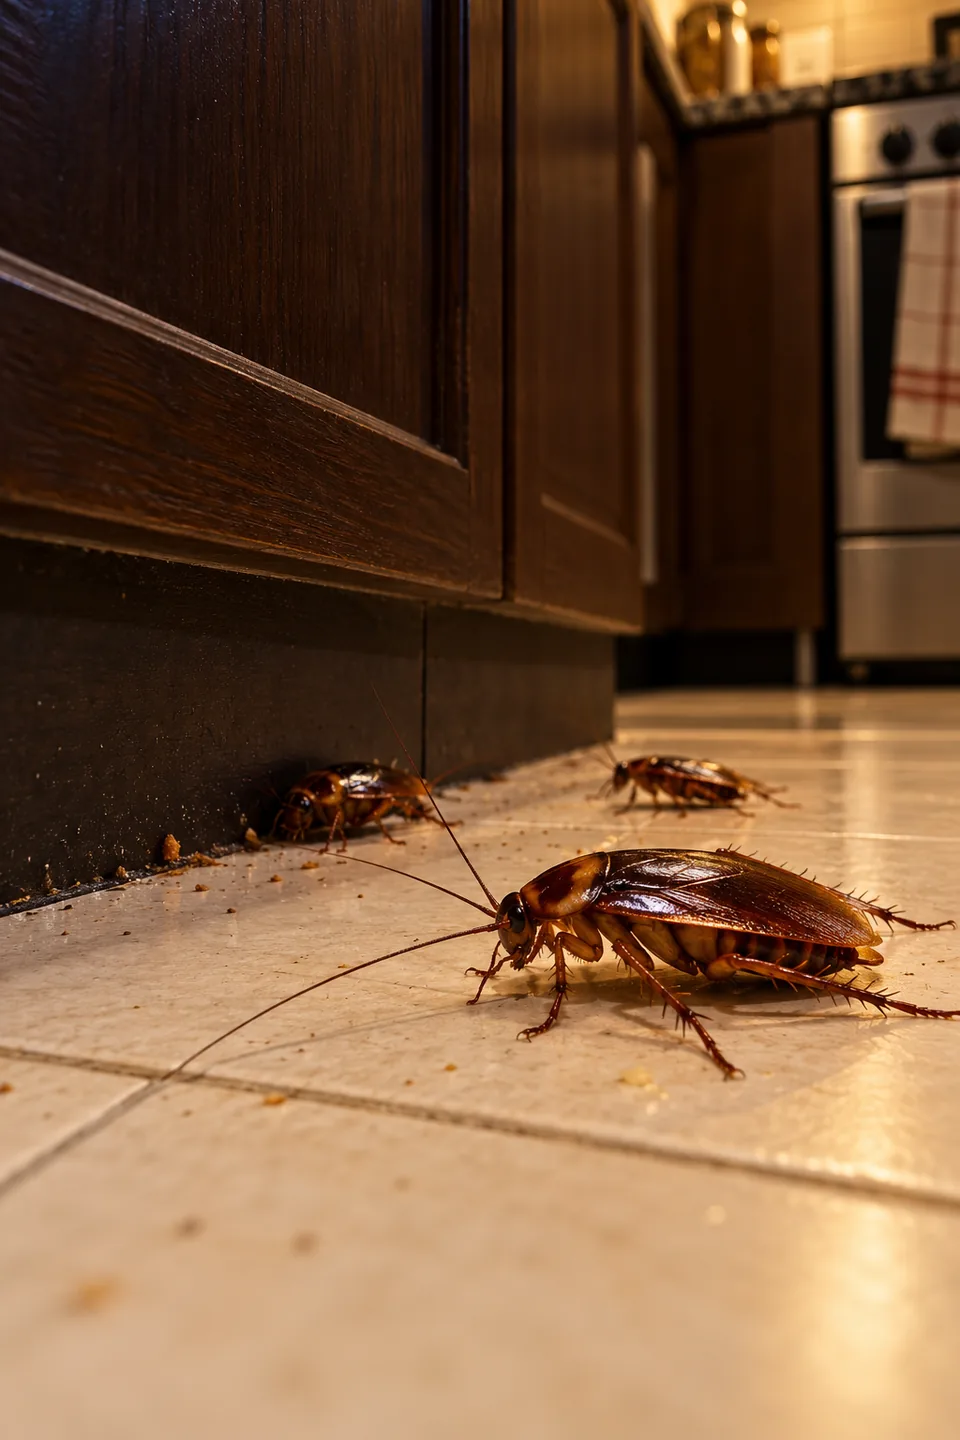
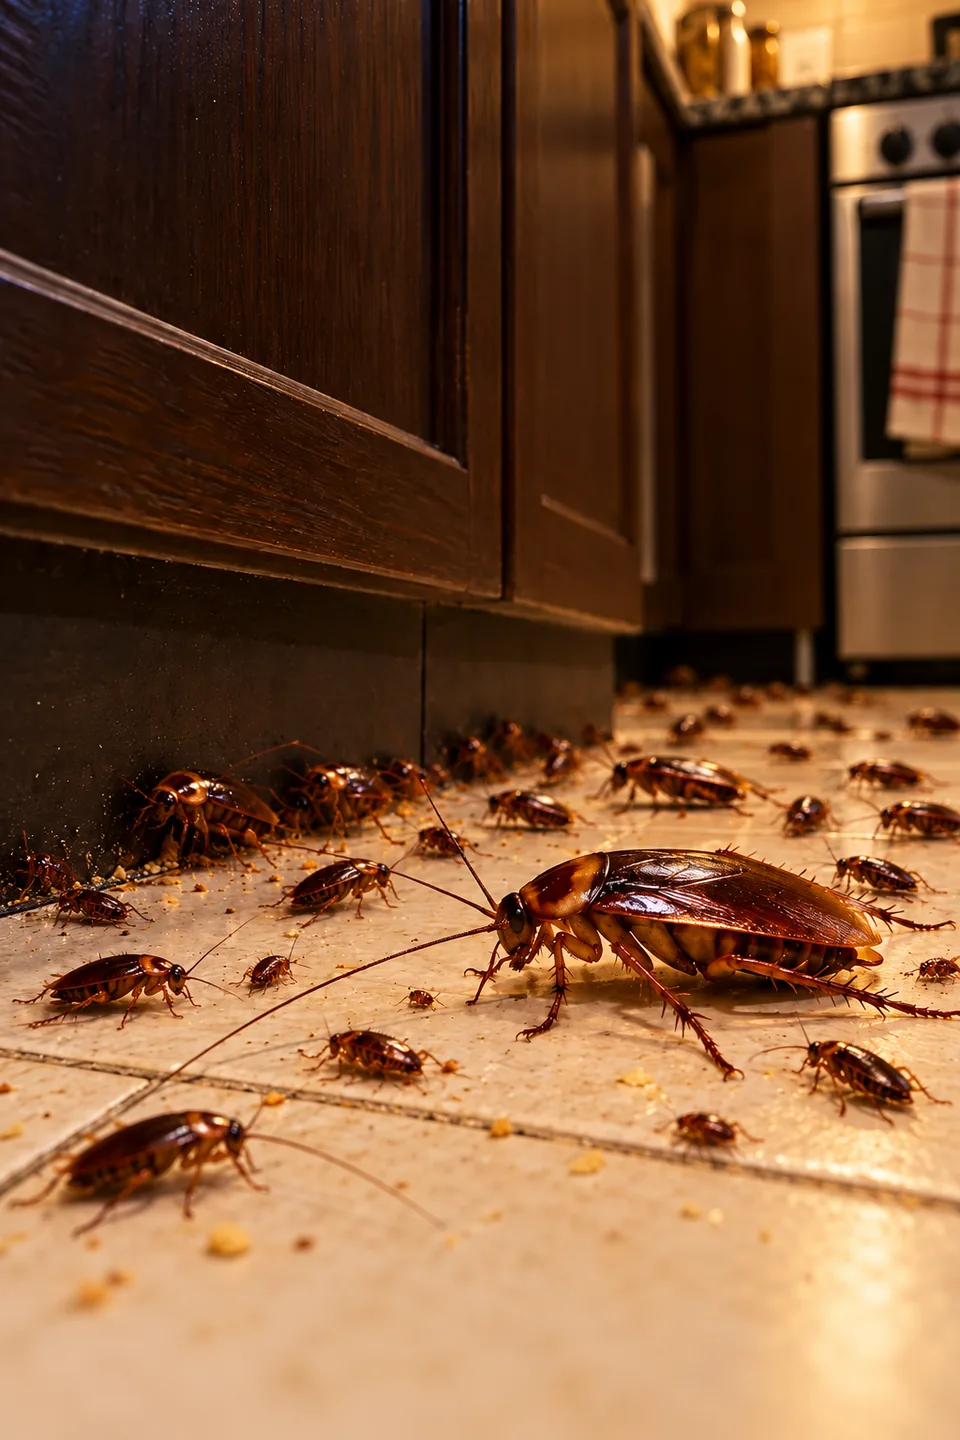
Polish mobile pest-control landing page

diff --git a/public/styles.css b/public/styles.css
@@ -10,7 +10,7 @@
 @media(max-width:350px){.hero-inner{padding-top:265px;min-height:950px}.hero-photo{height:425px}}
 
 .results{padding-bottom:80px}.comparison{display:grid;grid-template-columns:1fr 1fr;gap:20px}.comparison figure{margin:0}.comparison img{width:100%;height:auto;aspect-ratio:1.5;object-fit:cover;border-radius:18px}.comparison figcaption{font-size:13px;font-weight:650;margin-top:14px}.comparison-note{font-size:11px;color:var(--muted);margin-top:20px;max-width:650px}.phone-link,.nav-wa{min-width:44px;min-height:44px;display:flex;align-items:center;justify-content:center}
-@media(max-width:760px){.results{padding-bottom:55px}.comparison{gap:12px}.comparison img{aspect-ratio:1;object-position:75% center;border-radius:12px}.comparison figcaption{font-size:11px;line-height:1.4}.comparison-note{font-size:10px}}
+@media(max-width:760px){.results{padding-bottom:55px}.comparison{gap:12px}.comparison img{aspect-ratio:1.35;object-position:75% center;border-radius:12px}.comparison figcaption{font-size:11px;line-height:1.4}.comparison-note{font-size:10px}}
 
 /* Revision: let the pest scene carry the urgency; keep text readable on the left. */
 .hero-shade{background:linear-gradient(90deg,rgba(2,31,22,.47) 0%,rgba(2,31,22,.29) 35%,rgba(2,31,22,.04) 73%)}
@@ -68,7 +68,7 @@
  .hero-photo{height:590px}
  .hero-shade{background:linear-gradient(90deg,rgba(2,31,22,.35),rgba(2,31,22,.04) 78%)}
  .navigation.scrolled-away{transform:translate(-50%,-145%)}
- .mobile-contact{width:56px;height:56px;min-height:56px;right:16px;bottom:max(20px,env(safe-area-inset-bottom))}
+ .mobile-contact{left:auto;width:56px;height:56px;min-height:56px;right:16px;bottom:max(20px,env(safe-area-inset-bottom))}
  .contact-tip{display:none}
  .problem{grid-template-columns:1fr;gap:0}
  .problem-image{min-height:310px;aspect-ratio:1.35}
@@ -96,3 +96,183 @@
 }
 @media(prefers-reduced-motion:reduce){.navigation,.mobile-contact,.contact-tip{transition:none}}
 @media(max-width:760px){.hero-shade{background:linear-gradient(90deg,rgba(2,31,22,.32),rgba(2,31,22,.04) 78%),linear-gradient(0deg,#052c20 36%,rgba(5,44,32,.94) 40%,rgba(5,44,32,0) 46%)}}
+
+/* Refine the mobile story: headline first, visible infestation below. */
+@media(max-width:760px){
+ .hero-inner{padding:112px 0 22px;min-height:0;justify-content:flex-start}
+ .hero-photo{height:620px;object-position:center top}
+ .hero-copy{max-width:355px}
+ .hero .eyebrow{margin-bottom:12px}
+ .hero h1{margin-bottom:16px}
+ .hero-display{font-size:clamp(58px,15.2vw,66px);letter-spacing:-3px;line-height:.9}
+ .hero-promise{font-size:23px;margin-top:12px}
+ .hero-description{font-size:14px;margin-top:12px;max-width:340px}
+ .hero .button{margin-top:17px;min-height:50px}
+ .trust-line{margin-top:16px}
+ .hero-bottom{display:none}
+ .hero-shade{background:linear-gradient(90deg,rgba(2,31,22,.23),rgba(2,31,22,0) 75%),linear-gradient(0deg,rgba(5,44,32,.72),rgba(5,44,32,0) 24%)}
+ .hero-description{text-shadow:0 1px 10px rgba(0,0,0,.7)}
+}
+@media(max-width:350px){.hero-inner{padding-top:106px;min-height:0}.hero-photo{height:600px}.hero-display{font-size:56px}.hero-description{font-size:13px}}
+.problem-image{min-height:430px}
+.problem-image-shade{background:linear-gradient(90deg,rgba(3,28,20,.68),rgba(3,28,20,.28) 55%,transparent 100%),linear-gradient(0deg,rgba(3,28,20,.34),transparent 42%)}
+.problem-image-copy{position:absolute;z-index:1;top:30px;left:30px;right:24px;color:#fff;text-shadow:0 2px 18px #001b2366}
+.problem-image-copy .eyebrow{font-size:10px;letter-spacing:1.5px;margin-bottom:13px;color:#d5f0d5}
+.problem-image-copy h2{font-size:clamp(30px,3.2vw,44px);line-height:1.04;letter-spacing:-1.5px;max-width:500px}
+.problem-image-copy h2 span{color:#27dc7b}
+.problem-image>p{display:none}
+.problem-content{padding:34px 36px}
+.problem-content .eyebrow,.problem-content h2{display:none}
+.problem-content>p:not(.eyebrow){margin-bottom:10px}
+.process-section .section{display:flex;flex-direction:column;align-items:center;text-align:center;gap:0}
+.process-section .eyebrow{margin-bottom:10px}
+.process-section h2{margin-bottom:30px;max-width:none}
+.steps{width:min(100%,680px);text-align:left}
+.quote-form{padding:27px 28px}
+.quote-form>p:first-of-type{margin-bottom:17px}
+.quote-form label{margin-bottom:11px;gap:6px}
+.quote-form textarea{min-height:70px}
+.form-grid{gap:12px}
+@media(max-width:760px){
+ .problem-image{min-height:0;aspect-ratio:1.22}
+ .problem-image-copy{top:20px;left:20px;right:14px}
+ .problem-image-copy .eyebrow{font-size:9px;margin-bottom:9px}
+ .problem-image-copy h2{font-size:30px;max-width:260px}
+ .problem-content{padding:22px 22px 25px}
+ .process-section h2{margin-bottom:23px}
+ .quote-form{padding:22px 19px}
+ .quote-form label{margin-bottom:10px}
+ .quote-form h3{font-size:24px}
+ .quote-form>p:first-of-type{font-size:12px;margin-bottom:15px}
+}
+@media(max-width:350px){.problem-image-copy h2{font-size:26px}.quote-form{padding:21px 16px}}
+
+.problem{background:var(--cream)}
+
+/* Clean, photo-led hero inspired by the supplied mobile reference. */
+.hero-shade{background:linear-gradient(90deg,rgba(3,15,11,.72) 0%,rgba(3,15,11,.46) 43%,rgba(3,15,11,.08) 100%),linear-gradient(0deg,rgba(3,15,11,.58),transparent 42%)}
+.hero-copy{max-width:620px}
+.hero h1{font-size:clamp(46px,6vw,78px);line-height:.98;letter-spacing:-2.7px;font-weight:850;margin:0 0 18px}
+.hero h1 span{color:#c0e3c4}
+.hero-description{font-size:17px;line-height:1.55;max-width:440px;margin-top:0;color:#f5f5ef;text-shadow:0 2px 12px rgba(0,0,0,.55)}
+.hero .button{margin-top:24px}
+.trust-line{margin-top:19px;font-size:12px}
+@media(max-width:760px){
+ .hero-inner{padding:126px 0 30px;min-height:min(90svh,780px);justify-content:flex-start}
+ .hero-photo{height:100%;object-position:center center}
+ .hero-shade{background:linear-gradient(90deg,rgba(3,15,11,.56),rgba(3,15,11,.22) 72%,rgba(3,15,11,.08)),linear-gradient(0deg,rgba(3,15,11,.56),transparent 36%)}
+ .hero-copy{max-width:390px}
+ .hero .eyebrow{font-size:9px;letter-spacing:1.25px;margin-bottom:17px}
+ .hero h1{font-size:clamp(34px,9.8vw,45px);line-height:1.02;letter-spacing:-1.5px;margin-bottom:17px}
+ .hero h1 span{white-space:nowrap}
+ .hero-description{font-size:15px;max-width:345px;line-height:1.55}
+ .hero .button{width:min(100%,350px);margin-top:22px;min-height:54px}
+ .trust-line{gap:16px;margin-top:18px;font-size:10px}
+ .hero-bottom{display:none}
+}
+@media(max-width:350px){.hero-inner{padding-top:116px}.hero h1{font-size:32px}.hero h1 span{white-space:normal}.hero-description{font-size:14px}}
+
+/* Match the supplied three-panel visual direction. */
+.hero{color:var(--ink);background:var(--cream)}
+.hero-inner{min-height:900px;padding:0 0 34px;justify-content:flex-end}
+.hero-photo{height:100%;object-position:center center}
+.hero-shade{background:linear-gradient(180deg,rgba(247,245,237,0) 0%,rgba(247,245,237,0) 38%,rgba(247,245,237,.88) 58%,#f7f5ed 77%)}
+.hero-copy{color:var(--ink);max-width:790px}
+.hero .eyebrow{color:var(--forest);font-size:12px;letter-spacing:1.4px;margin-bottom:17px}
+.hero h1{text-transform:uppercase;font-size:clamp(58px,8vw,104px);font-weight:900;line-height:.88;letter-spacing:-4px;margin-bottom:12px}
+.hero h1 span{color:var(--forest)}
+.hero-promise{font-size:clamp(24px,3.3vw,36px);color:var(--ink);margin:0 0 10px;letter-spacing:-.8px}
+.hero-description{font-size:clamp(18px,2vw,25px);line-height:1.35;color:#27352f;max-width:760px;text-shadow:none;margin:0}
+.hero .button{background:#078f48;color:#fff;min-height:68px;padding-inline:30px;font-size:20px;box-shadow:0 15px 28px #12352125;margin-top:28px}
+.hero .button .icon{width:28px;height:28px}
+.trust-line{display:grid;grid-template-columns:repeat(3,minmax(0,1fr));gap:0;max-width:760px;margin-top:30px;color:var(--ink);font-size:16px}
+.trust-line span{justify-content:center;padding:8px 14px;border-right:1px solid #10271f25}
+.trust-line span:first-child{justify-content:flex-start;padding-left:0}
+.trust-line span:last-child{border:0;justify-content:flex-end;padding-right:0}
+.trust-line .icon{color:var(--forest);width:27px;height:27px}
+.hero-bottom{display:none}
+.problem{display:flex;flex-direction:column;max-width:1000px;border-radius:26px;overflow:hidden;padding:0;background:#fcfbf7;color:var(--ink);box-shadow:0 12px 34px #10271f0b}
+.problem-image{width:100%;min-height:0;aspect-ratio:1.8;position:relative;overflow:hidden;background:#ddd}
+.problem-image img{position:absolute;inset:0;width:100%;height:100%;object-fit:cover;object-position:center 56%}
+.problem-image img.problem-pest{inset:auto auto 7% 6%;width:clamp(68px,10vw,110px);height:auto;aspect-ratio:1;object-fit:contain;mix-blend-mode:multiply;opacity:.9;transform:rotate(-16deg);filter:drop-shadow(0 4px 5px #2318104d)}
+.problem-content{width:100%;padding:34px 48px 42px;align-self:auto}
+.problem-content .eyebrow{display:block;color:#56816b;font-size:13px;letter-spacing:2px;margin:0 0 22px}
+.problem-content h2{display:block;font-size:clamp(42px,6vw,72px);line-height:.98;letter-spacing:-3px;margin:0 0 22px;color:var(--forest)}
+.problem-content h2 span{color:#00a657}
+.problem-content>p:not(.eyebrow){font-size:clamp(17px,2.3vw,24px);line-height:1.5;color:#59625e;margin:0;max-width:800px}
+.problem-signals{display:grid;grid-template-columns:repeat(3,1fr);gap:0;margin-top:32px;color:var(--ink);font-size:18px}
+.problem-signals span{display:flex;flex-direction:column;align-items:center;justify-content:center;gap:12px;padding:0 12px;border-right:1px solid #10271f25}
+.problem-signals span:last-child{border:0}
+.problem-signals i{width:66px;height:66px;border-radius:50%;display:grid;place-items:center;background:#e9eee5;color:var(--forest);font-style:normal}
+.problem-signals .icon{width:35px;height:35px;color:var(--forest)}
+.quote-section{background:var(--cream);color:var(--ink)}
+.quote-layout{display:block;max-width:980px;padding-block:60px 90px}
+.quote-form{position:relative;overflow:hidden;padding:46px 48px 36px;border:1px solid #e9e8e0;border-radius:28px;background:#fcfbf7;box-shadow:0 12px 34px #10271f08}
+.quote-heading{position:relative;margin-bottom:34px;padding-right:190px}
+.quote-heading .eyebrow{color:#168153;font-size:14px;letter-spacing:2px;margin-bottom:18px}
+.quote-heading h2{font-size:clamp(50px,7vw,78px);line-height:.97;letter-spacing:-3.8px;color:var(--ink);margin-bottom:20px}
+.quote-heading h2 span{color:#00a657}
+.quote-heading>p:last-of-type{font-size:clamp(18px,2.5vw,26px);line-height:1.4;color:#59625e;max-width:650px}
+.quote-note{position:absolute;right:0;top:38px;width:150px;color:var(--forest);font-size:19px;line-height:1.15;font-weight:750;transform:rotate(-8deg);text-align:center}
+.quote-note span{display:block;font-size:44px;font-weight:400;line-height:1;margin-top:10px;transform:rotate(-25deg)}
+.quote-form label{position:relative;display:flex;flex-direction:column;gap:9px;margin-bottom:18px;color:#132b24;font-size:17px;font-weight:700}
+.quote-form label>span.field-icon{position:absolute;inset:50px auto auto 25px;color:#102e26;right:auto}
+.quote-form label>span.optional{position:static;align-self:flex-end;margin-top:-28px;color:#6b756f;font-size:13px;font-weight:400}
+.quote-form input,.quote-form select,.quote-form textarea{min-height:72px;border:1.5px solid #d8dbd6;border-radius:17px;background:transparent;padding:18px 20px 18px 70px;font-size:20px;color:var(--ink)}
+.quote-form textarea{min-height:132px;padding-top:20px;resize:vertical}
+.quote-form input::placeholder,.quote-form textarea::placeholder{color:#969b98}
+.quote-form select{appearance:none;background-image:linear-gradient(45deg,transparent 50%,#142b24 50%),linear-gradient(135deg,#142b24 50%,transparent 50%);background-position:calc(100% - 26px) 31px,calc(100% - 18px) 31px;background-size:8px 8px,8px 8px;background-repeat:no-repeat}
+.field-icon{position:absolute;left:25px;top:49px;color:#102e26;pointer-events:none}
+.field-icon .icon{width:27px;height:27px}
+.field-icon-textarea{top:52px}
+.quote-form .form-error{color:#a42d24;font-size:14px;margin-bottom:10px}
+.quote-form .button{min-height:78px;margin-top:14px;background:#078f48;color:#fff;font-size:24px;box-shadow:0 14px 24px #078f4824}
+.quote-form .button .icon{width:34px;height:34px}
+.quote-form .privacy{display:flex;align-items:center;gap:12px;margin:22px 0 0;color:#68726c;font-size:17px;line-height:1.45}
+.quote-form .privacy .icon{width:22px;height:22px;color:#132b24}
+.quote-form .form-status{margin-top:12px}
+@media(max-width:760px){
+ .hero-inner{min-height:0;padding:48svh 0 24px;justify-content:flex-start}
+ .hero-photo{height:100%;object-position:56% center}
+ .hero-shade{background:linear-gradient(180deg,rgba(2,20,14,.18) 0%,rgba(2,20,14,.26) 36%,rgba(2,20,14,.72) 68%,rgba(2,20,14,.82) 82%,#f7f5ed 91%,#fff 100%)}
+ .hero-copy{max-width:none}
+ .hero h1{color:#fff;font-size:clamp(48px,13vw,68px);line-height:.88;letter-spacing:-2.8px;margin-bottom:10px;text-shadow:0 3px 16px rgba(0,0,0,.5)}
+ .hero h1 .hero-line-light{color:#fff}
+ .hero h1 span{color:#65e893;text-shadow:0 2px 12px rgba(0,0,0,.55)}
+ .hero-promise{font-size:clamp(23px,6vw,29px);color:#fff;margin-bottom:8px;text-shadow:0 2px 12px rgba(0,0,0,.6)}
+ .hero-description{font-size:17px;line-height:1.35;max-width:100%;color:#fff;text-shadow:0 2px 12px rgba(0,0,0,.65)}
+ .hero .button{width:100%;min-height:64px;margin-top:20px;font-size:18px;background:#078f48;color:#fff;box-shadow:0 12px 26px rgba(0,0,0,.28)}
+ .trust-line{grid-template-columns:repeat(3,minmax(0,1fr));max-width:none;margin-top:20px;font-size:11px;color:var(--ink)}
+ .trust-line span{gap:6px;padding:6px 8px}
+ .trust-line .icon{width:21px;height:21px;color:var(--forest)}
+ .problem{width:calc(100% - 36px);border-radius:22px}
+ .problem-image{aspect-ratio:1.28;object-position:center}
+ .problem-image img.problem-pest{inset:auto auto 7% 5%;width:76px;height:auto}
+ .problem-content{padding:26px 24px 30px}
+ .problem-content .eyebrow{font-size:10px;letter-spacing:1.6px;margin-bottom:16px}
+ .problem-content h2{font-size:clamp(40px,11vw,54px);letter-spacing:-2.2px;margin-bottom:15px}
+ .problem-content>p:not(.eyebrow){font-size:17px;line-height:1.5}
+ .problem-signals{margin-top:24px;font-size:14px}
+ .problem-signals span{gap:9px;padding:0 5px}
+ .problem-signals i{width:54px;height:54px}
+ .problem-signals .icon{width:29px;height:29px}
+ .quote-layout{padding-block:40px 58px}
+ .quote-form{padding:30px 22px 26px;border-radius:22px}
+ .quote-heading{padding-right:0;margin-bottom:26px}
+ .quote-heading .eyebrow{font-size:11px;margin-bottom:13px}
+ .quote-heading h2{font-size:clamp(42px,11vw,58px);letter-spacing:-2.4px;margin-bottom:13px}
+ .quote-heading>p:last-of-type{font-size:17px;max-width:320px}
+ .quote-note{position:relative;right:auto;top:auto;width:max-content;max-width:100%;margin:10px 0 0 auto;font-size:13px;line-height:1.15;transform:rotate(-5deg)}
+ .quote-note span{font-size:26px;margin-top:2px}
+ .quote-form label{font-size:14px;gap:7px;margin-bottom:15px}
+ .quote-form input,.quote-form select,.quote-form textarea{min-height:60px;border-radius:13px;padding:15px 14px 15px 54px;font-size:16px}
+ .quote-form textarea{min-height:112px;padding-top:16px}
+ .quote-form select{background-position:calc(100% - 22px) 25px,calc(100% - 14px) 25px}
+ .quote-form label>span.field-icon{left:17px;top:43px}
+ .field-icon .icon{width:23px;height:23px}
+ .quote-form label>span.field-icon-textarea{top:46px}
+ .quote-form label>span.optional{margin-top:-24px;font-size:11px}
+ .quote-form .button{min-height:65px;font-size:18px;gap:8px}
+ .quote-form .button .icon{width:27px;height:27px}
+ .quote-form .privacy{font-size:12px;gap:9px;margin-top:17px}
+}

diff --git a/public/app.js b/public/app.js
@@ -22,7 +22,7 @@ form.addEventListener('submit', event => {
   error.textContent = '';
   status.textContent = '';
   const data = Object.fromEntries(new FormData(form));
-  const required = ['nombre', 'telefono', 'zona', 'plaga', 'descripcion', 'lugar', 'mascotas'];
+  const required = ['nombre', 'zona', 'plaga'];
   for (const name of required) {
     if (!data[name]?.trim()) {
       error.textContent = 'Completá los campos obligatorios para preparar tu consulta.';
@@ -30,18 +30,12 @@ form.addEventListener('submit', event => {
       return;
     }
   }
-  if (data.telefono.replace(/\D/g, '').length < 6) {
-    error.textContent = 'Revisá tu número de teléfono: debe incluir al menos 6 dígitos.';
-    form.elements.telefono.focus();
-    return;
-  }
   const message = [
     'Hola, quiero consultar por un servicio de control de plagas en Córdoba Capital.', '',
-    `Nombre: ${data.nombre.trim()}`, `Teléfono: ${data.telefono.trim()}`,
-    `Zona: ${data.zona.trim()}`, `Tipo de lugar: ${data.lugar}`,
-    `Problema/plaga: ${data.plaga}`, `Mascotas: ${data.mascotas}`,
-    ...(data.tiempo.trim() ? [`Hace cuánto: ${data.tiempo.trim()}`] : []),
-    `Descripción: ${data.descripcion.trim()}`
+    `Nombre: ${data.nombre.trim()}`,
+    `Zona: ${data.zona.trim()}`,
+    `Problema/plaga: ${data.plaga}`,
+    ...(data.descripcion?.trim() ? [`Descripción: ${data.descripcion.trim()}`] : [])
   ].join('\n');
   const url = `https://wa.me/${form.dataset.whatsapp}?text=${encodeURIComponent(message)}`;
   const link = document.createElement('a');
